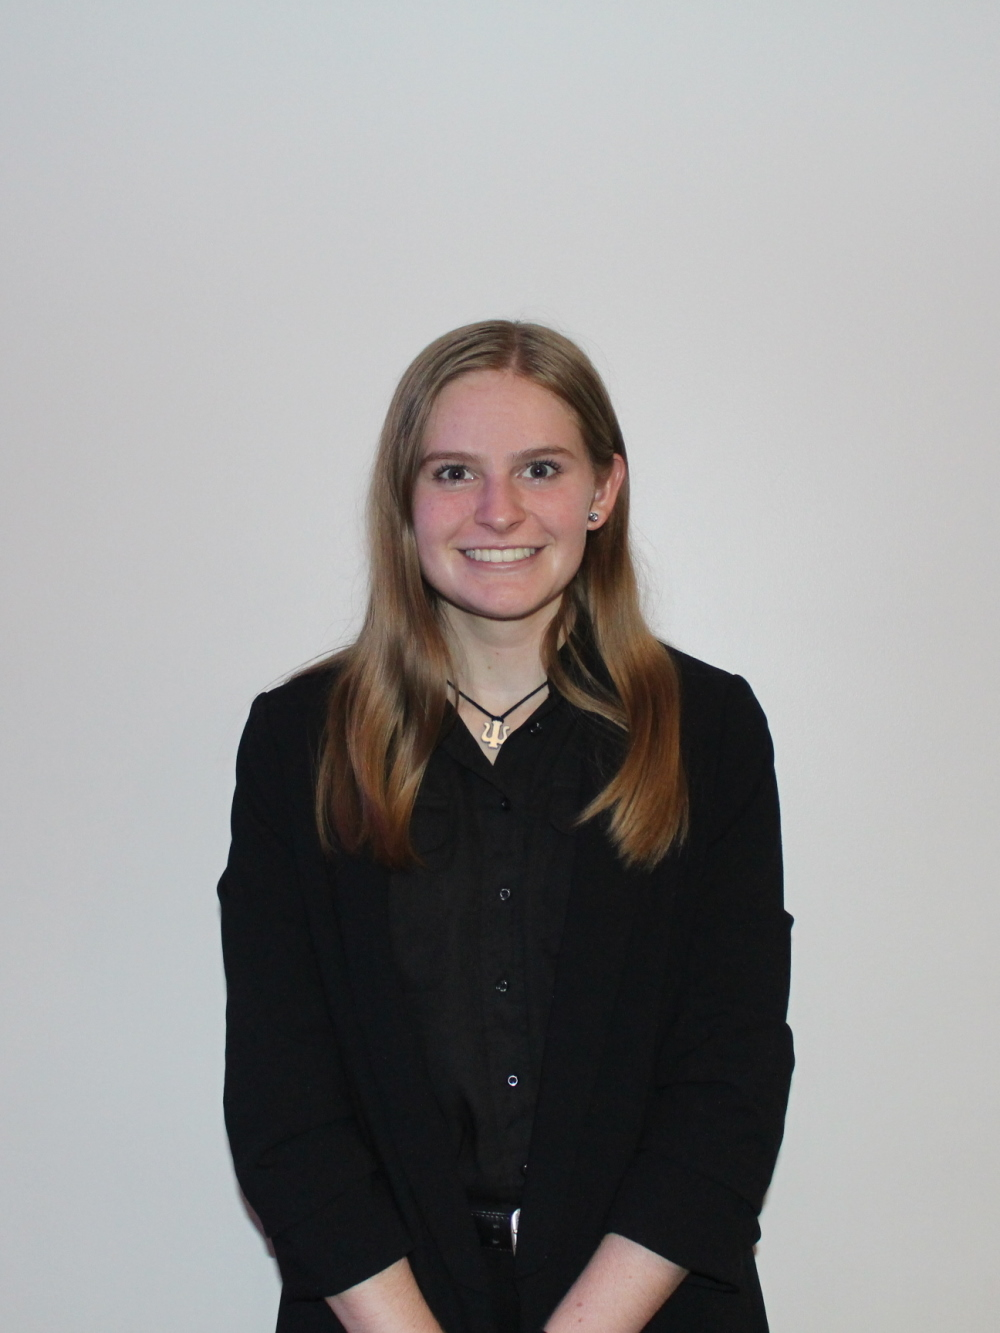
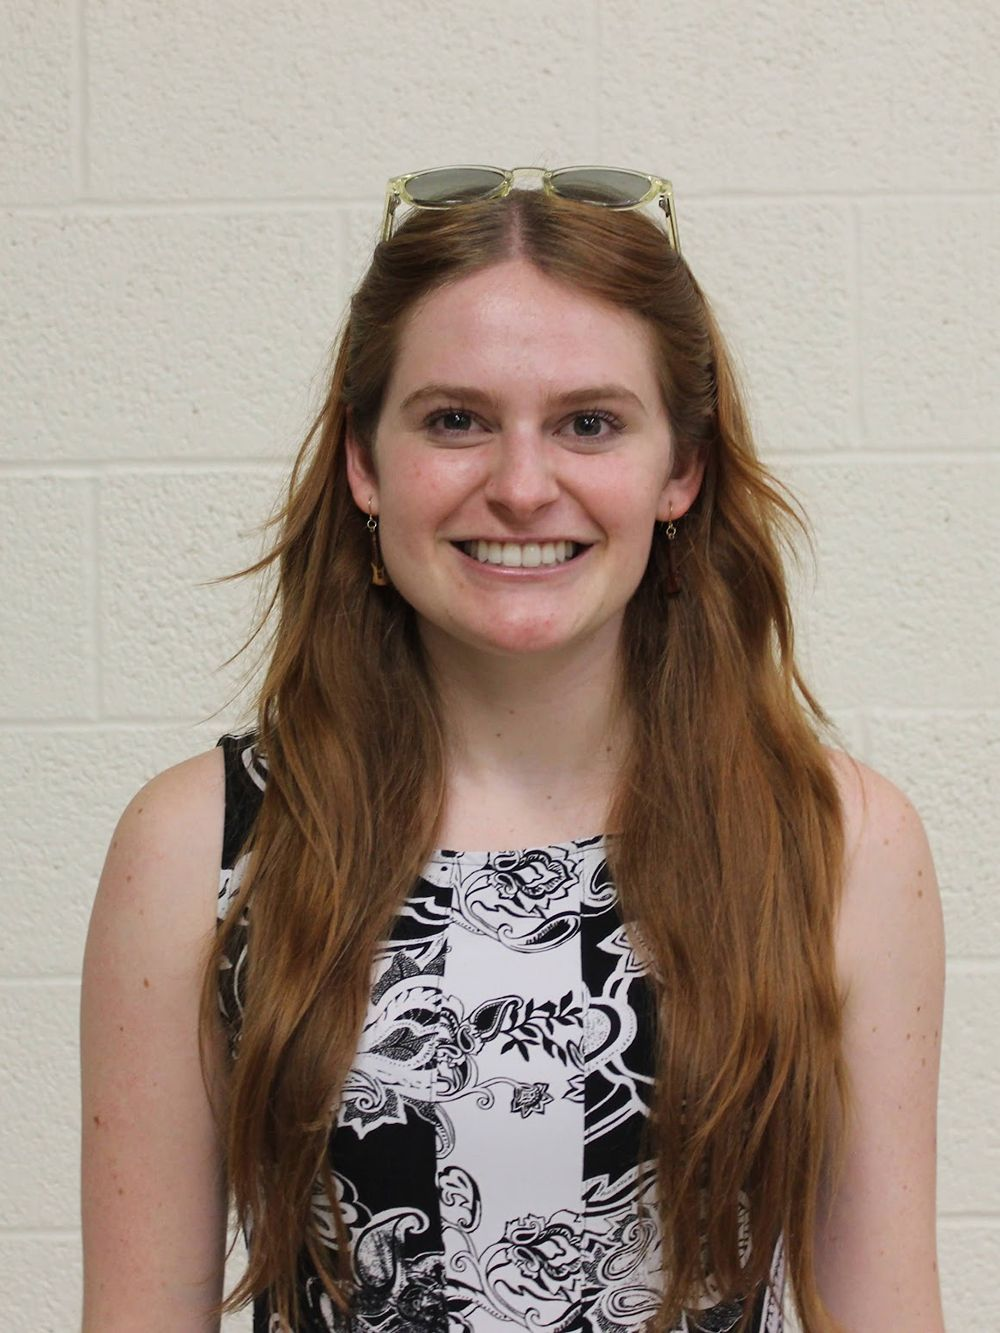
Small additional tweaks

diff --git a/brothers.html b/brothers.html
@@ -184,28 +184,6 @@
         </div>
         <div id="brother-card">
           <div class="card">
-            <img class="card-img-top" src="img\people\Sam_Powers.JPG" alt="Sam Powers" onerror="this.onerror=null;this.src='img\\logos\\KappaKappaPsiForCards.png'" />
-            <div class="card-body">
-              <h3 class="card-text">
-                Sam Powers
-              </h3>
-              <h6 class="card-text">
-                <i>He/Him/His</i>
-              </h6>
-              <h5 class="card-text">
-                Spring 23
-              </h5>
-              <h5 class="card-text">
-                Tuba
-              </h5>
-              <h5 class="card-text">
-                Major(s): Finance
-              </h5>
-            </div>
-          </div>
-        </div>
-        <div id="brother-card">
-          <div class="card">
             <img class="card-img-top" src="img\people\Jocelyn_Pritchard.JPG" alt="Jocelyn Pritchard" onerror="this.onerror=null;this.src='img\\logos\\KappaKappaPsiForCards.png'" />
             <div class="card-body">
               <h3 class="card-text">
@@ -316,28 +294,6 @@
               </h5>
               <h5 class="card-text">
                 Major(s): Wildlife Ecology and Conservation
-              </h5>
-            </div>
-          </div>
-        </div>
-        <div id="brother-card">
-          <div class="card">
-            <img class="card-img-top" src="img\people\Jackson_Connolly.JPG" alt="Jackson Connolly" onerror="this.onerror=null;this.src='img\\logos\\KappaKappaPsiForCards.png'" />
-            <div class="card-body">
-              <h3 class="card-text">
-                Jackson Connolly
-              </h3>
-              <h6 class="card-text">
-                <i>He/Him/His</i>
-              </h6>
-              <h5 class="card-text">
-                Fall 23
-              </h5>
-              <h5 class="card-text">
-                Saxophone
-              </h5>
-              <h5 class="card-text">
-                Major(s): Accounting
               </h5>
             </div>
           </div>

diff --git a/index.html b/index.html
@@ -40,13 +40,13 @@ X<!DOCTYPE html>
     <div id="president">
       <div id="president-image">
         <h1>Meet Our President</h1>
-        <img src="img\people\Kayli_Bowen.JPG" alt="Kappa Kappa Psi president Kayli Bowen"></img>
+        <img src="img\people\Olivia_Bittinger.jpg" alt="Kappa Kappa Psi president Olivia Bittinger"></img>
       </div>
       <div id="president-message">
         <h2>Brothers, Alumni, and Visitors,</h2>
         <p>"Thank you for visiting Alpha Eta's website! Our chapter is so excited to have the opportunity to serve the bands at the University of Florida and spread music throughout the greater Gainesville area.
           We encourage you to explore our website and learn how we work to strive for the highest. Please feel free to contact us!"</p>
-        <p><br>AEA,<br>Kayli Bowen</p>
+        <p><br>AEA,<br>Olivia Bittinger</p>
       </div>
     </div>
 
